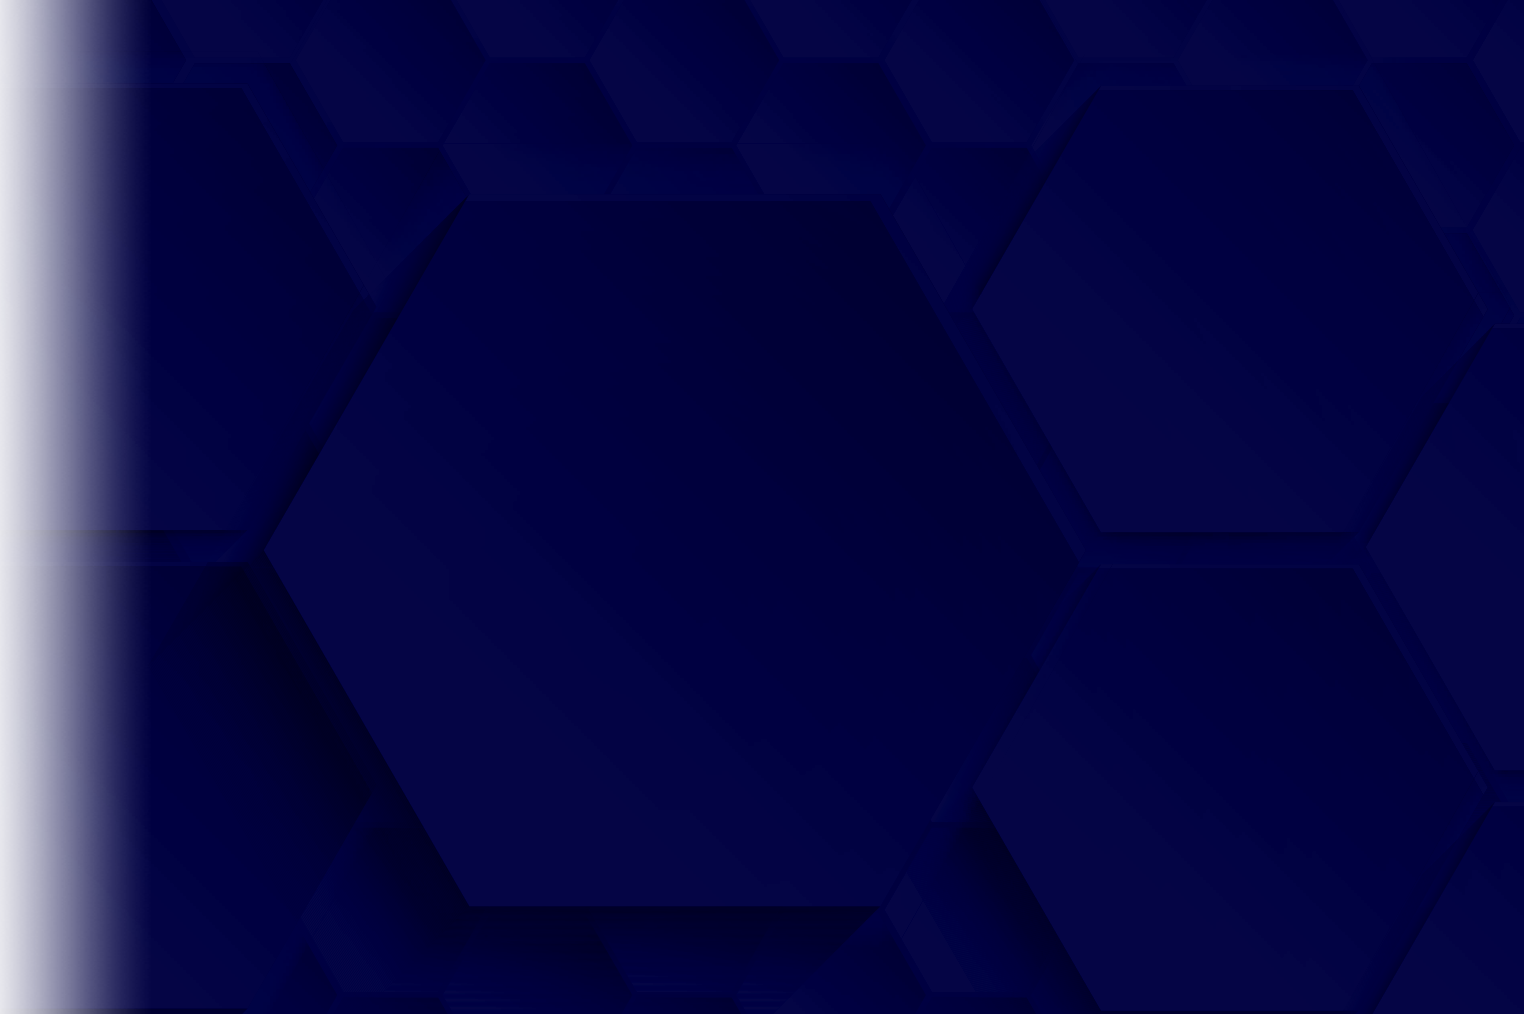
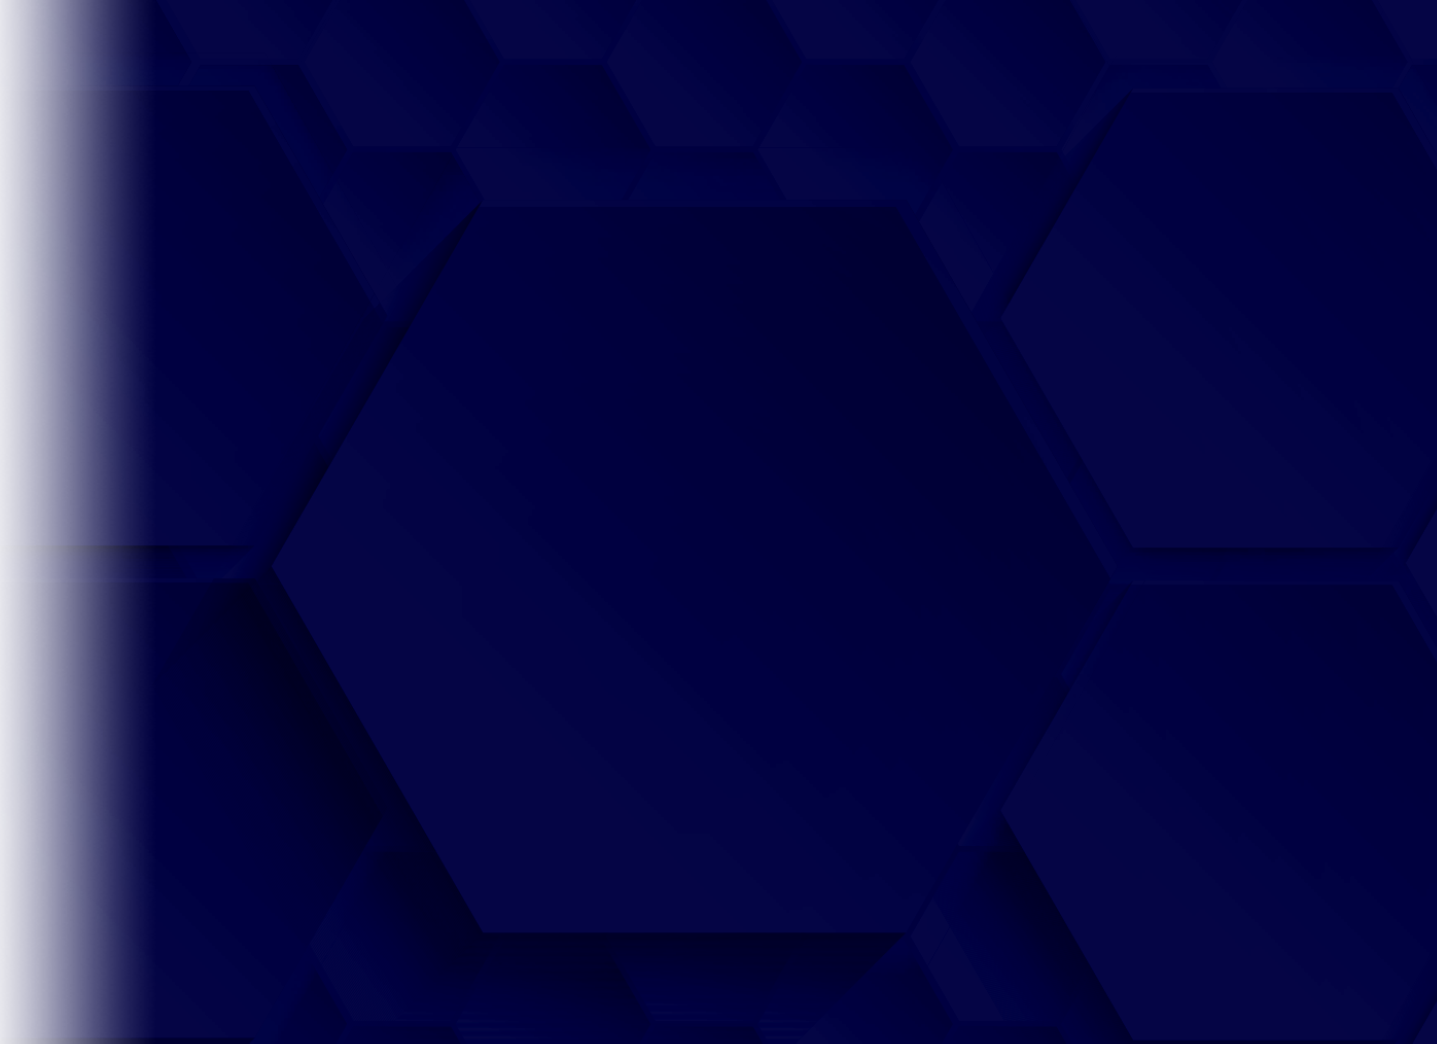
fixed background issue

diff --git a/src/components/ConnectWalletButton/index.tsx b/src/components/ConnectWalletButton/index.tsx
@@ -18,7 +18,7 @@ const UnlockButton: React.FC<ButtonProps> = props => {
   const { onPresentConnectModal } = useWalletModal(handleLogin, deactivate, account as string)
 
   return (
-    <Button size="md" style={{width: '180px', margin: '0 auto'}} onClick={onPresentConnectModal} {...props}>
+    <Button size="md" style={{width: '180px', margin: '0 auto',padding: '20px'}} onClick={onPresentConnectModal} {...props}>
       {TranslateString(292, 'Unlock Wallet')}
     </Button>
   )

diff --git a/src/pages/App.tsx b/src/pages/App.tsx
@@ -55,7 +55,7 @@ export default function App() {
     z-index: 1;
     background-repeat: no-repeat;
     background-position: center top;
-    background-size: auto;
+    background-size: cover;
   `)
   // const apiKey = `${process.env.REACT_APP_CROWDIN_APIKEY}`
   // const projectId = parseInt(`${process.env.REACT_APP_CROWDIN_PROJECTID}`)
